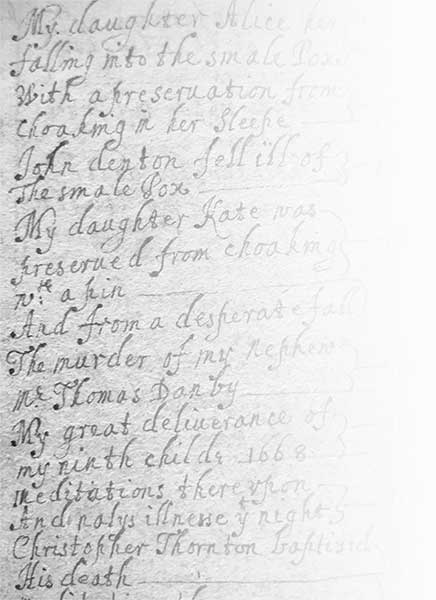
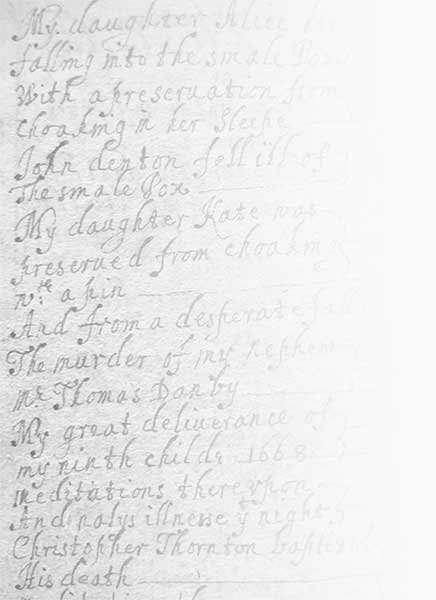
Reduced hue on background

diff --git a/_site/assets/css/main.css b/_site/assets/css/main.css
@@ -1,1 +1,1 @@
-@font-face{font-family:"Lora";src:url("/assets/fonts/Lora/Lora-VariableFont_wght.ttf") format("woff2-variations");font-weight:125 950;font-stretch:75% 125%}@font-face{font-family:"Lora";src:url("/assets/fonts/Lora/Lora-Italic-VariableFont_wght.ttf") format("woff2-variations");font-style:oblique 0deg 20deg}@font-face{font-family:"Noto";src:url("/assets/fonts/Noto_Sans_Display/NotoSansDisplay-VariableFont.ttf") format("woff2-variations");font-weight:125 950;font-stretch:75% 125%}@font-face{font-family:"Noto";src:url("/assets/fonts/Noto_Sans_Display/NotoSansDisplay-Italic-VariableFont.ttf.ttf") format("woff2-variations");font-style:oblique 0deg 20deg}body{background:linear-gradient(0.75turn, transparent 50%, #ffe1c6),url("/assets/img/alice-thornthon-bg.jpg") top left repeat-y}.is-primary{background:#462200 !important}.is-secondary{background:#b34200 !important}.is-accent{background:#df8833 !important;color:#0a0a0a !important}a.tag{text-decoration:none}body{background-color:#fbfbfb;font-family:"Noto",sans-serif;font-size:18px;font-weight:450;line-height:1.75}a{text-decoration:underline}a:hover{background-color:#f0c8a1}p.small{font-size:.875em}h1,h1.title{font-size:2.25em}h2{font-size:1.5em}h3{font-size:1.25em}.content h1,.content h2,.content h3,.content h4,.content h5,.content h6{color:#b34200;font-family:"Lora",serif}h1,h2,h3,h4,h5,h6{color:#b34200;font-family:"Lora",serif}h1.small-heading,h2.small-heading,h3.small-heading,h4.small-heading,h5.small-heading,h6.small-heading{font-size:1.5em}.index-page-titles{background:#ffdfcd;padding:.25em}.index-page-titles a{color:#0a0a0a;text-decoration:none}.title{color:#b34200}.index-page-w-images{display:grid;grid-template-columns:30% 70%;grid-gap:15px;margin-bottom:1em}@media screen and (max-width: 768px){.index-page-w-images{grid-template-columns:100%}}.index-page-w-images img{width:100%}footer,.footer{background-color:#fff}.text-center{text-align:center}.text-left{text-align:left}.text-right{text-align:right}[class^=gallery-]{display:grid;grid-template-columns:100%;grid-gap:5px}[class^=gallery-] img{width:100% !important}[class^=gallery-] p{margin-bottom:0;padding:.5em}.gallery-by-2{grid-template-columns:50% 50%}@media screen and (min-width: 769px),print{.gallery-by-3{grid-template-columns:33% 33% 33%}}@media screen and (min-width: 769px),print{.gallery-by-4{grid-template-columns:50% 50%}}@media screen and (min-width: 1024px){.gallery-by-4{grid-template-columns:25% 25% 25% 25%}}.logo img{background:#fbfbfb;border:1px solid #cdcac7;border-radius:50%;display:block;height:50px;max-height:50px;margin-right:8px;width:50px}.logos img,.content .logos img,[class^=gallery-] .logos img{background:rgba(0,0,0,0);padding:50px}.navbar{background-color:#462200;color:#cdcac7}.navbar .navbar-burger{color:#cdcac7}.navbar .navbar-burger:hover{background-color:#cdcac7;color:#462200}.navbar a.navbar-item{background-color:#462200;padding:1.5rem 1rem 1.25rem;text-decoration:none;color:#cdcac7}.navbar a.navbar-item.is-active{border-bottom:4px solid #fbfbfb;color:#fbfbfb}@media screen and (max-width: 1023px){.navbar a.navbar-item.is-active{background-color:#b34200;border-bottom:none}}.navbar a.navbar-item:hover{background-color:#fbfbfb;color:#462200}.navbar a.navbar-item:focus{border:1px solid #df8833}.navbar .navbar-menu{background-color:#462200}.navbar .navbar-menu .is-active{color:#462200}.post-meta{font-size:.875em;font-style:italic}div.content img{background:#cdcac7;padding:3px}img[src*="#right"]{float:right;margin-left:.5em}img[src*="#left"]{float:left;margin-right:.5em}img[src*="#center"]{display:block;margin:.5em auto}img[src*="#left"],img[src*="#right"],img[src*="#center"]{width:20vw}@media screen and (max-width: 768px){img[src*="#left"],img[src*="#right"],img[src*="#center"]{display:block;float:none;margin:.5em 0;width:100%}}
+@font-face{font-family:"Lora";src:url("/assets/fonts/Lora/Lora-VariableFont_wght.ttf") format("woff2-variations");font-weight:125 950;font-stretch:75% 125%}@font-face{font-family:"Lora";src:url("/assets/fonts/Lora/Lora-Italic-VariableFont_wght.ttf") format("woff2-variations");font-style:oblique 0deg 20deg}@font-face{font-family:"Noto";src:url("/assets/fonts/Noto_Sans_Display/NotoSansDisplay-VariableFont.ttf") format("woff2-variations");font-weight:125 950;font-stretch:75% 125%}@font-face{font-family:"Noto";src:url("/assets/fonts/Noto_Sans_Display/NotoSansDisplay-Italic-VariableFont.ttf.ttf") format("woff2-variations");font-style:oblique 0deg 20deg}body{background:linear-gradient(0.75turn, transparent 80%, #ffefdf),url("/assets/img/alice-thornthon-bg.jpg") top left repeat-y}.is-primary{background:#462200 !important}.is-secondary{background:#b34200 !important}.is-accent{background:#df8833 !important;color:#0a0a0a !important}a.tag{text-decoration:none}body{background-color:#fbfbfb;font-family:"Noto",sans-serif;font-size:18px;font-weight:450;line-height:1.75}a{text-decoration:underline}a:hover{background-color:#f0c8a1}p.small{font-size:.875em}h1,h1.title{font-size:2.25em}h2{font-size:1.5em}h3{font-size:1.25em}.content h1,.content h2,.content h3,.content h4,.content h5,.content h6{color:#b34200;font-family:"Lora",serif}h1,h2,h3,h4,h5,h6{color:#b34200;font-family:"Lora",serif}h1.small-heading,h2.small-heading,h3.small-heading,h4.small-heading,h5.small-heading,h6.small-heading{font-size:1.5em}.index-page-titles{background:#ffdfcd;padding:.25em}.index-page-titles a{color:#0a0a0a;text-decoration:none}.title{color:#b34200}.index-page-w-images{display:grid;grid-template-columns:30% 70%;grid-gap:15px;margin-bottom:1em}@media screen and (max-width: 768px){.index-page-w-images{grid-template-columns:100%}}.index-page-w-images img{width:100%}footer,.footer{background-color:#fff}.text-center{text-align:center}.text-left{text-align:left}.text-right{text-align:right}[class^=gallery-]{display:grid;grid-template-columns:100%;grid-gap:5px}[class^=gallery-] img{width:100% !important}[class^=gallery-] p{margin-bottom:0;padding:.5em}.gallery-by-2{grid-template-columns:50% 50%}@media screen and (min-width: 769px),print{.gallery-by-3{grid-template-columns:33% 33% 33%}}@media screen and (min-width: 769px),print{.gallery-by-4{grid-template-columns:50% 50%}}@media screen and (min-width: 1024px){.gallery-by-4{grid-template-columns:25% 25% 25% 25%}}.logo img{background:#fbfbfb;border:1px solid #cdcac7;border-radius:50%;display:block;height:50px;max-height:50px;margin-right:8px;width:50px}.logos img,.content .logos img,[class^=gallery-] .logos img{background:rgba(0,0,0,0);padding:50px}.navbar{background-color:#462200;color:#cdcac7}.navbar .navbar-burger{color:#cdcac7}.navbar .navbar-burger:hover{background-color:#cdcac7;color:#462200}.navbar a.navbar-item{background-color:#462200;padding:1.5rem 1rem 1.25rem;text-decoration:none;color:#cdcac7}.navbar a.navbar-item.is-active{border-bottom:4px solid #fbfbfb;color:#fbfbfb}@media screen and (max-width: 1023px){.navbar a.navbar-item.is-active{background-color:#b34200;border-bottom:none}}.navbar a.navbar-item:hover{background-color:#fbfbfb;color:#462200}.navbar a.navbar-item:focus{border:1px solid #df8833}.navbar .navbar-menu{background-color:#462200}.navbar .navbar-menu .is-active{color:#462200}.post-meta{font-size:.875em;font-style:italic}div.content img{background:#cdcac7;padding:3px}img[src*="#right"]{float:right;margin-left:.5em}img[src*="#left"]{float:left;margin-right:.5em}img[src*="#center"]{display:block;margin:.5em auto}img[src*="#left"],img[src*="#right"],img[src*="#center"]{width:20vw}@media screen and (max-width: 768px){img[src*="#left"],img[src*="#right"],img[src*="#center"]{display:block;float:none;margin:.5em 0;width:100%}}

diff --git a/assets/css/main.css b/assets/css/main.css
@@ -1,1 +1,1 @@
-@font-face{font-family:"Lora";src:url("/assets/fonts/Lora/Lora-VariableFont_wght.ttf") format("woff2-variations");font-weight:125 950;font-stretch:75% 125%}@font-face{font-family:"Lora";src:url("/assets/fonts/Lora/Lora-Italic-VariableFont_wght.ttf") format("woff2-variations");font-style:oblique 0deg 20deg}@font-face{font-family:"Noto";src:url("/assets/fonts/Noto_Sans_Display/NotoSansDisplay-VariableFont.ttf") format("woff2-variations");font-weight:125 950;font-stretch:75% 125%}@font-face{font-family:"Noto";src:url("/assets/fonts/Noto_Sans_Display/NotoSansDisplay-Italic-VariableFont.ttf.ttf") format("woff2-variations");font-style:oblique 0deg 20deg}body{background:linear-gradient(0.75turn, transparent 50%, #ffe1c6),url("/assets/img/alice-thornthon-bg.jpg") top left repeat-y}.is-primary{background:#462200 !important}.is-secondary{background:#b34200 !important}.is-accent{background:#df8833 !important;color:#0a0a0a !important}a.tag{text-decoration:none}body{background-color:#fbfbfb;font-family:"Noto",sans-serif;font-size:18px;font-weight:450;line-height:1.75}a{text-decoration:underline}a:hover{background-color:#f0c8a1}p.small{font-size:.875em}h1,h1.title{font-size:2.25em}h2{font-size:1.5em}h3{font-size:1.25em}.content h1,.content h2,.content h3,.content h4,.content h5,.content h6{color:#b34200;font-family:"Lora",serif}h1,h2,h3,h4,h5,h6{color:#b34200;font-family:"Lora",serif}h1.small-heading,h2.small-heading,h3.small-heading,h4.small-heading,h5.small-heading,h6.small-heading{font-size:1.5em}.index-page-titles{background:#ffdfcd;padding:.25em}.index-page-titles a{color:#0a0a0a;text-decoration:none}.title{color:#b34200}.index-page-w-images{display:grid;grid-template-columns:30% 70%;grid-gap:15px;margin-bottom:1em}@media screen and (max-width: 768px){.index-page-w-images{grid-template-columns:100%}}.index-page-w-images img{width:100%}footer,.footer{background-color:#fff}.text-center{text-align:center}.text-left{text-align:left}.text-right{text-align:right}[class^=gallery-]{display:grid;grid-template-columns:100%;grid-gap:5px}[class^=gallery-] img{width:100% !important}[class^=gallery-] p{margin-bottom:0;padding:.5em}.gallery-by-2{grid-template-columns:50% 50%}@media screen and (min-width: 769px),print{.gallery-by-3{grid-template-columns:33% 33% 33%}}@media screen and (min-width: 769px),print{.gallery-by-4{grid-template-columns:50% 50%}}@media screen and (min-width: 1024px){.gallery-by-4{grid-template-columns:25% 25% 25% 25%}}.logo img{background:#fbfbfb;border:1px solid #cdcac7;border-radius:50%;display:block;height:50px;max-height:50px;margin-right:8px;width:50px}.logos img,.content .logos img,[class^=gallery-] .logos img{background:rgba(0,0,0,0);padding:50px}.navbar{background-color:#462200;color:#cdcac7}.navbar .navbar-burger{color:#cdcac7}.navbar .navbar-burger:hover{background-color:#cdcac7;color:#462200}.navbar a.navbar-item{background-color:#462200;padding:1.5rem 1rem 1.25rem;text-decoration:none;color:#cdcac7}.navbar a.navbar-item.is-active{border-bottom:4px solid #fbfbfb;color:#fbfbfb}@media screen and (max-width: 1023px){.navbar a.navbar-item.is-active{background-color:#b34200;border-bottom:none}}.navbar a.navbar-item:hover{background-color:#fbfbfb;color:#462200}.navbar a.navbar-item:focus{border:1px solid #df8833}.navbar .navbar-menu{background-color:#462200}.navbar .navbar-menu .is-active{color:#462200}.post-meta{font-size:.875em;font-style:italic}div.content img{background:#cdcac7;padding:3px}img[src*="#right"]{float:right;margin-left:.5em}img[src*="#left"]{float:left;margin-right:.5em}img[src*="#center"]{display:block;margin:.5em auto}img[src*="#left"],img[src*="#right"],img[src*="#center"]{width:20vw}@media screen and (max-width: 768px){img[src*="#left"],img[src*="#right"],img[src*="#center"]{display:block;float:none;margin:.5em 0;width:100%}}
+@font-face{font-family:"Lora";src:url("/assets/fonts/Lora/Lora-VariableFont_wght.ttf") format("woff2-variations");font-weight:125 950;font-stretch:75% 125%}@font-face{font-family:"Lora";src:url("/assets/fonts/Lora/Lora-Italic-VariableFont_wght.ttf") format("woff2-variations");font-style:oblique 0deg 20deg}@font-face{font-family:"Noto";src:url("/assets/fonts/Noto_Sans_Display/NotoSansDisplay-VariableFont.ttf") format("woff2-variations");font-weight:125 950;font-stretch:75% 125%}@font-face{font-family:"Noto";src:url("/assets/fonts/Noto_Sans_Display/NotoSansDisplay-Italic-VariableFont.ttf.ttf") format("woff2-variations");font-style:oblique 0deg 20deg}body{background:linear-gradient(0.75turn, transparent 80%, #ffefdf),url("/assets/img/alice-thornthon-bg.jpg") top left repeat-y}.is-primary{background:#462200 !important}.is-secondary{background:#b34200 !important}.is-accent{background:#df8833 !important;color:#0a0a0a !important}a.tag{text-decoration:none}body{background-color:#fbfbfb;font-family:"Noto",sans-serif;font-size:18px;font-weight:450;line-height:1.75}a{text-decoration:underline}a:hover{background-color:#f0c8a1}p.small{font-size:.875em}h1,h1.title{font-size:2.25em}h2{font-size:1.5em}h3{font-size:1.25em}.content h1,.content h2,.content h3,.content h4,.content h5,.content h6{color:#b34200;font-family:"Lora",serif}h1,h2,h3,h4,h5,h6{color:#b34200;font-family:"Lora",serif}h1.small-heading,h2.small-heading,h3.small-heading,h4.small-heading,h5.small-heading,h6.small-heading{font-size:1.5em}.index-page-titles{background:#ffdfcd;padding:.25em}.index-page-titles a{color:#0a0a0a;text-decoration:none}.title{color:#b34200}.index-page-w-images{display:grid;grid-template-columns:30% 70%;grid-gap:15px;margin-bottom:1em}@media screen and (max-width: 768px){.index-page-w-images{grid-template-columns:100%}}.index-page-w-images img{width:100%}footer,.footer{background-color:#fff}.text-center{text-align:center}.text-left{text-align:left}.text-right{text-align:right}[class^=gallery-]{display:grid;grid-template-columns:100%;grid-gap:5px}[class^=gallery-] img{width:100% !important}[class^=gallery-] p{margin-bottom:0;padding:.5em}.gallery-by-2{grid-template-columns:50% 50%}@media screen and (min-width: 769px),print{.gallery-by-3{grid-template-columns:33% 33% 33%}}@media screen and (min-width: 769px),print{.gallery-by-4{grid-template-columns:50% 50%}}@media screen and (min-width: 1024px){.gallery-by-4{grid-template-columns:25% 25% 25% 25%}}.logo img{background:#fbfbfb;border:1px solid #cdcac7;border-radius:50%;display:block;height:50px;max-height:50px;margin-right:8px;width:50px}.logos img,.content .logos img,[class^=gallery-] .logos img{background:rgba(0,0,0,0);padding:50px}.navbar{background-color:#462200;color:#cdcac7}.navbar .navbar-burger{color:#cdcac7}.navbar .navbar-burger:hover{background-color:#cdcac7;color:#462200}.navbar a.navbar-item{background-color:#462200;padding:1.5rem 1rem 1.25rem;text-decoration:none;color:#cdcac7}.navbar a.navbar-item.is-active{border-bottom:4px solid #fbfbfb;color:#fbfbfb}@media screen and (max-width: 1023px){.navbar a.navbar-item.is-active{background-color:#b34200;border-bottom:none}}.navbar a.navbar-item:hover{background-color:#fbfbfb;color:#462200}.navbar a.navbar-item:focus{border:1px solid #df8833}.navbar .navbar-menu{background-color:#462200}.navbar .navbar-menu .is-active{color:#462200}.post-meta{font-size:.875em;font-style:italic}div.content img{background:#cdcac7;padding:3px}img[src*="#right"]{float:right;margin-left:.5em}img[src*="#left"]{float:left;margin-right:.5em}img[src*="#center"]{display:block;margin:.5em auto}img[src*="#left"],img[src*="#right"],img[src*="#center"]{width:20vw}@media screen and (max-width: 768px){img[src*="#left"],img[src*="#right"],img[src*="#center"]{display:block;float:none;margin:.5em 0;width:100%}}

diff --git a/_includes/css/main.scss b/_includes/css/main.scss
@@ -26,7 +26,7 @@ $light: #cdcac7;
 $dark: #0a0a0a;
 
 body {
-  background: linear-gradient(0.75turn, transparent 50%, lighten($primary, 75%)), url("/assets/img/alice-thornthon-bg.jpg") top left repeat-y;
+  background: linear-gradient(0.75turn, transparent 80%, lighten($primary, 80%)), url("/assets/img/alice-thornthon-bg.jpg") top left repeat-y;
 }
 
 // TODO: 
